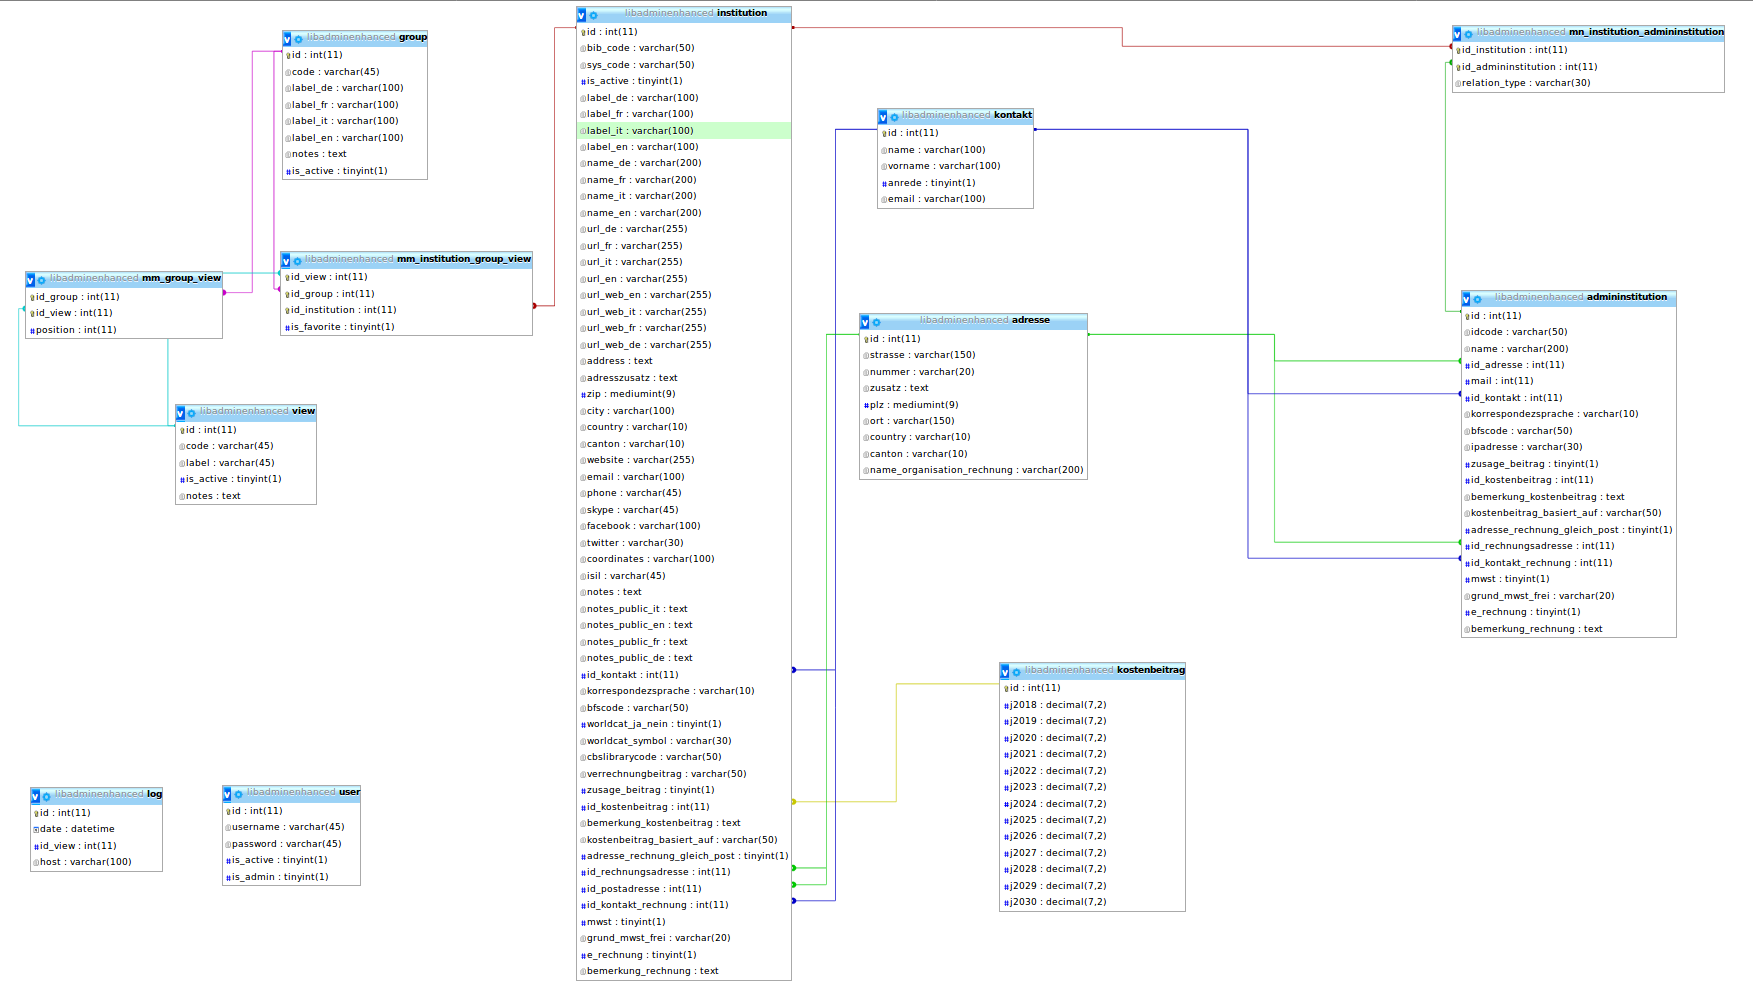
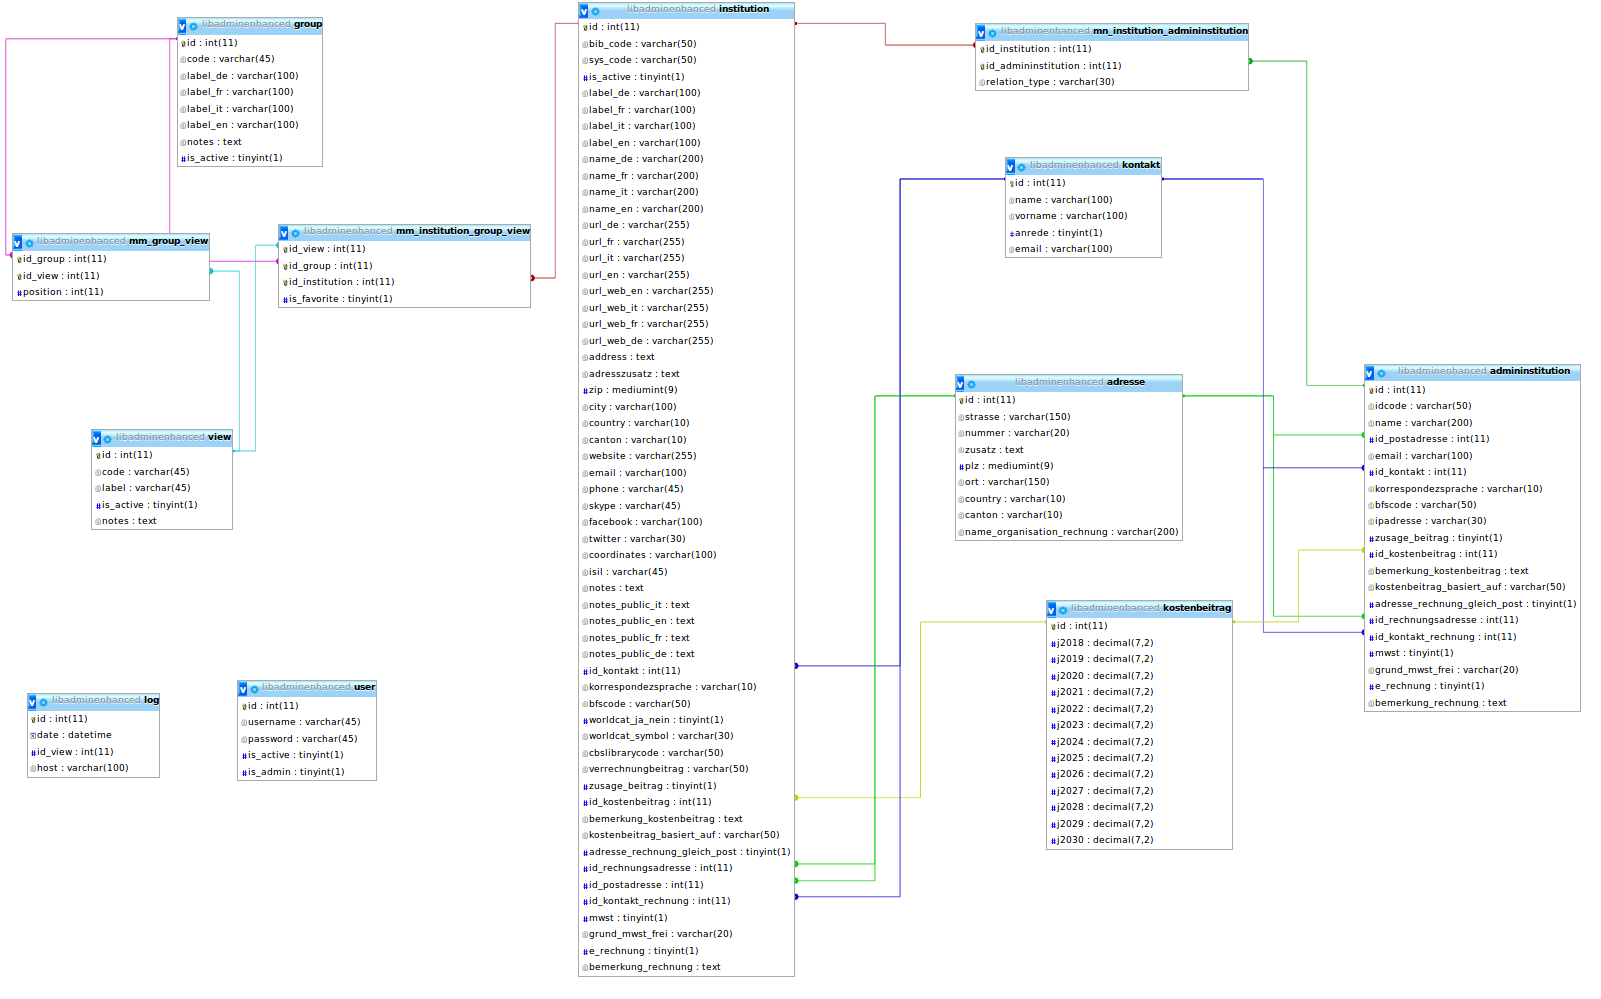
improve import from csv

diff --git a/module/Administration/src/Administration/Services/ImportExportService.php b/module/Administration/src/Administration/Services/ImportExportService.php
@@ -224,7 +224,7 @@ class ImportExportService
                 {
                     $billContact = new Kontakt();
                     $billContact->initLocalVariablesBillPersonFromExcel($combinedValuesFromLine);
-                    $idBillContact =  $this->kontaktTable->save($mainContact);
+                    $idBillContact =  $this->kontaktTable->save($billContact);
                     $institution->setId_kontakt_rechnung($idBillContact);
 
                 }
@@ -283,7 +283,7 @@ class ImportExportService
             $admininstitution =  new AdminInstitution();
             $admininstitution->initLocalVariablesFromExcel($combinedValuesFromLine);
 
-            if (empty($admininstitution->getIdAdresse()) ) {
+            if (empty($admininstitution->getIdPostadresse()) ) {
                 //todo: ich habe noch nicht den Fall abgefangen, bei dem bereits eine Adresse vorhanden ist
                 //(Datenbankupdate durch Importdaten)
 
@@ -293,7 +293,7 @@ class ImportExportService
                 //and move it into the adress table
                 $postAdressID = $this->adresseTable->save($postAdresse);
 
-                $admininstitution->setIdAdresse($postAdressID);
+                $admininstitution->setIdPostadresse($postAdressID);
             }
 
             if (! $admininstitution->getAdresseRechnungGleichPost() ) {
@@ -321,7 +321,7 @@ class ImportExportService
             {
                 $billContact = new Kontakt();
                 $billContact->initLocalVariablesBillPersonFromExcel($combinedValuesFromLine);
-                $idBillContact =  $this->kontaktTable->save($mainContact);
+                $idBillContact =  $this->kontaktTable->save($billContact);
                 $admininstitution->setIdKontaktRechnung($idBillContact);
 
             }

diff --git a/module/Libadmin/src/Libadmin/Model/AdminInstitution.php b/module/Libadmin/src/Libadmin/Model/AdminInstitution.php
@@ -67,15 +67,15 @@ class AdminInstitution extends BaseModel
 
 
     /**
-     * reference to adresse
+     * reference to postadresse
      * @var ?Integer
      */
-    public $id_adresse;
+    public $id_postadresse;
 
     /**
      * @var ?String
      */
-    public $mail;
+    public $email;
 
     /**
      * @var ?Integer
@@ -176,28 +176,28 @@ class AdminInstitution extends BaseModel
     /**
      * @return mixed
      */
-    public function getIdAdresse()
+    public function getIdPostadresse()
     {
-        return $this->id_adresse;
+        return $this->id_postadresse;
     }
 
     /**
-     * @param mixed $id_adresse
+     * @param mixed $id_postadresse
      *
      * @return AdminInstitution
      */
-    public function setIdAdresse($id_adresse)
+    public function setIdPostadresse($id_postadresse)
     {
-        $this->id_adresse = $id_adresse;
+        $this->id_postadresse = $id_postadresse;
         return $this;
     }
 
     /**
      * @return mixed
      */
-    public function getMail()
+    public function getEmail()
     {
-        return $this->mail;
+        return $this->email;
     }
 
     /**
@@ -205,9 +205,9 @@ class AdminInstitution extends BaseModel
      *
      * @return AdminInstitution
      */
-    public function setMail($mail)
+    public function setEmail($email)
     {
-        $this->mail = $mail;
+        $this->email = $email;
         return $this;
     }
 
@@ -562,6 +562,7 @@ class AdminInstitution extends BaseModel
         $this->setIpadresse($excelData["ipadresse"]);
         $this->setIdcode($excelData["idcode"]);
         $this->setName($excelData["name"]);
+        $this->setEmail($excelData["mail"]);
 
 
     }

diff --git a/module/Libadmin/src/Libadmin/Controller/AdminInstitutionController.php b/module/Libadmin/src/Libadmin/Controller/AdminInstitutionController.php
@@ -115,8 +115,8 @@ class AdminInstitutionController extends BaseController
             //todo: lookup documentation if empty is the correct method in PHP to check the value of object properties
             //we have to fetch several objects (Adresse, Kontakt, ....) if there is a foreign key value in the
             // admininstitution object
-            if (!empty($admininstitution->getIdAdresse())) {
-                $adresse = $this->getAdressObjectForEdit($admininstitution->getIdAdresse());
+            if (!empty($admininstitution->getIdPostadresse())) {
+                $adresse = $this->getAdressObjectForEdit($admininstitution->getIdPostadresse());
             }
 
             //weitere Möglichkeit zur Abfrage: adresse_rechnung_gleich_post

diff --git a/module/Libadmin/src/Libadmin/Form/AdminInstitutionFieldset.php b/module/Libadmin/src/Libadmin/Form/AdminInstitutionFieldset.php
@@ -56,14 +56,9 @@ class AdminInstitutionFieldset extends BaseFieldset implements InputFilterProvid
             ->setObject(new AdminInstitution());
 
         $this->addHidden('id');
-        $this->addHidden('id_adresse');
-        $this->addHidden('id_kontakt');
-        $this->addHidden('id_kostenbeitrag');
-
-
 
         $this->addText('name', 'name', true);
-        $this->addText('mail', 'mail', true);
+        $this->addText('email', 'email', true);
         $this->addText('korrespondezsprache', 'korrespondezsprache', true);
         $this->addText('bfscode', 'bfscode', true);
         $this->addText('ipadresse', 'ipadresse', true);

diff --git a/documentation/MigrationToLibadminEnhanced.md b/documentation/MigrationToLibadminEnhanced.md
@@ -69,5 +69,13 @@ php public/index.php loaddata admininstitution ../documentation/database/data/ad
 
 The address might have been updated in libadmin and not in the excel. Be careful with this step.
 
+## In one step 
+```
+sudo mysql < ./documentation/database/libadminenhanced.schema.sql
+sudo mysql libadminenhanced < ~/Documents/mycloud/swissbib/libadmin/libadmin-dump-20180614.sql
+php public/index.php loaddata institution ../documentation/database/data/libadmin.institutions.new.csv
+php public/index.php loaddata admininstitution ../documentation/database/data/admininstitution.new.csv
+```
+
 
 
